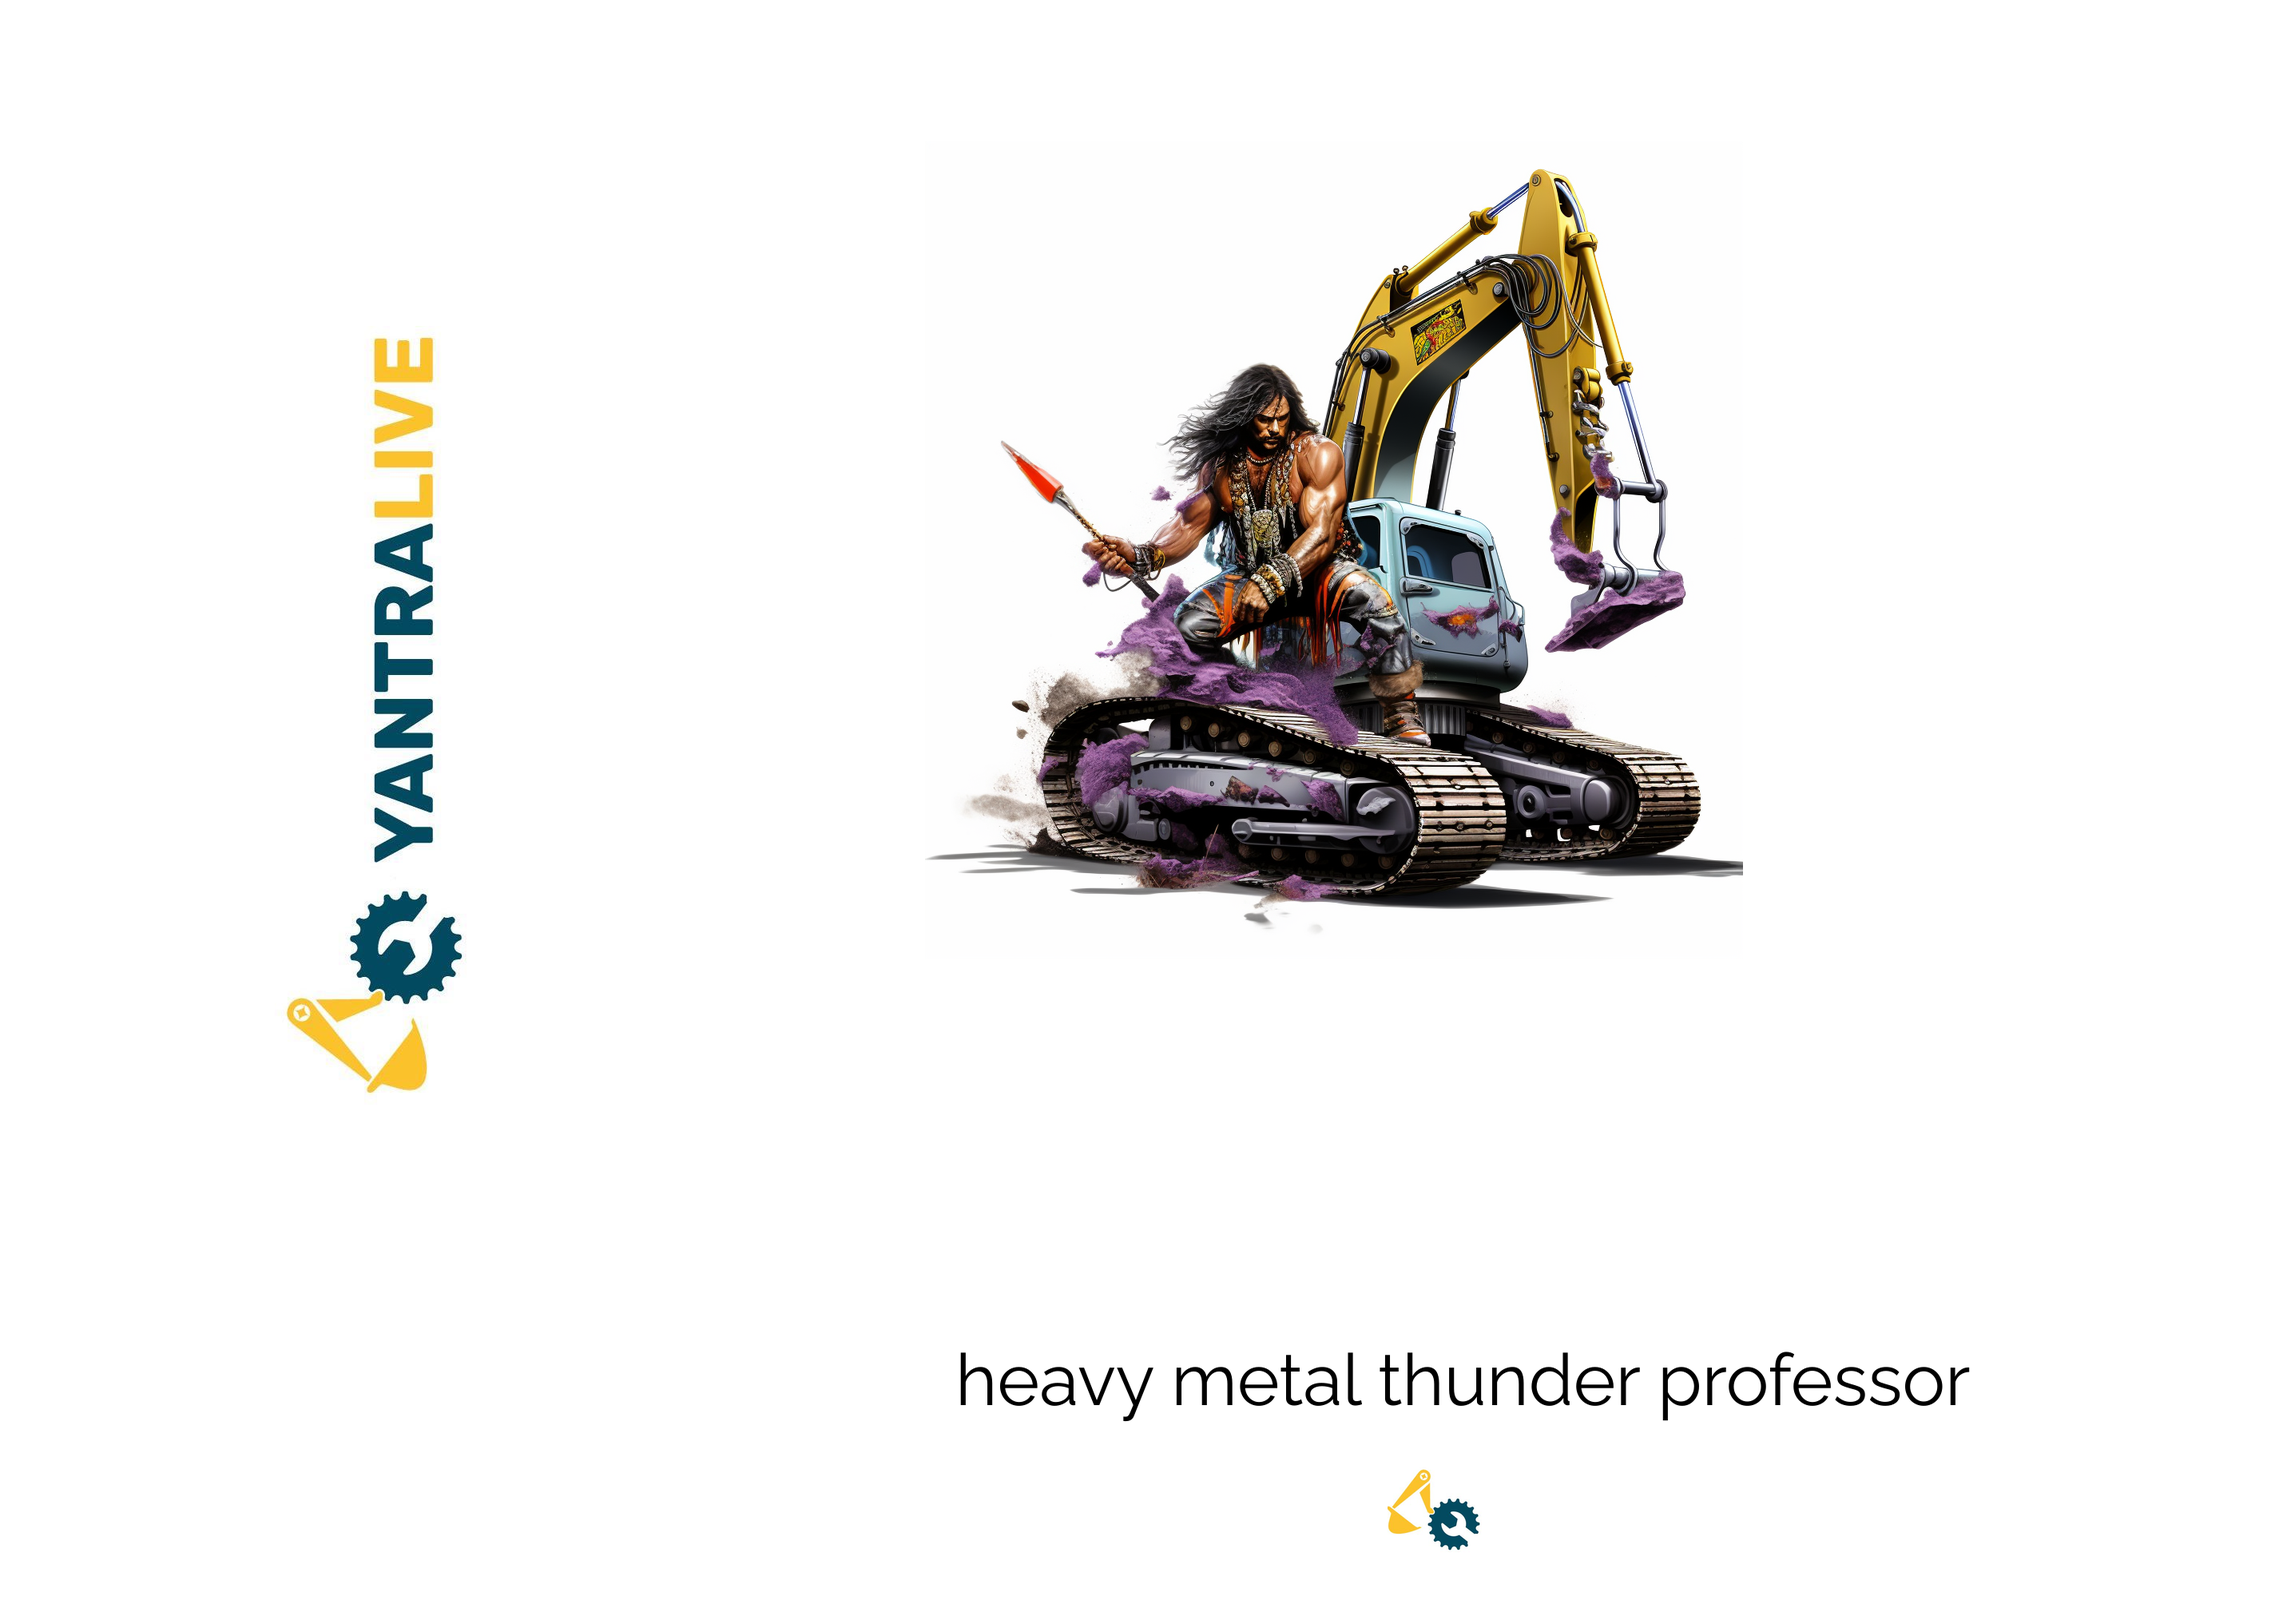
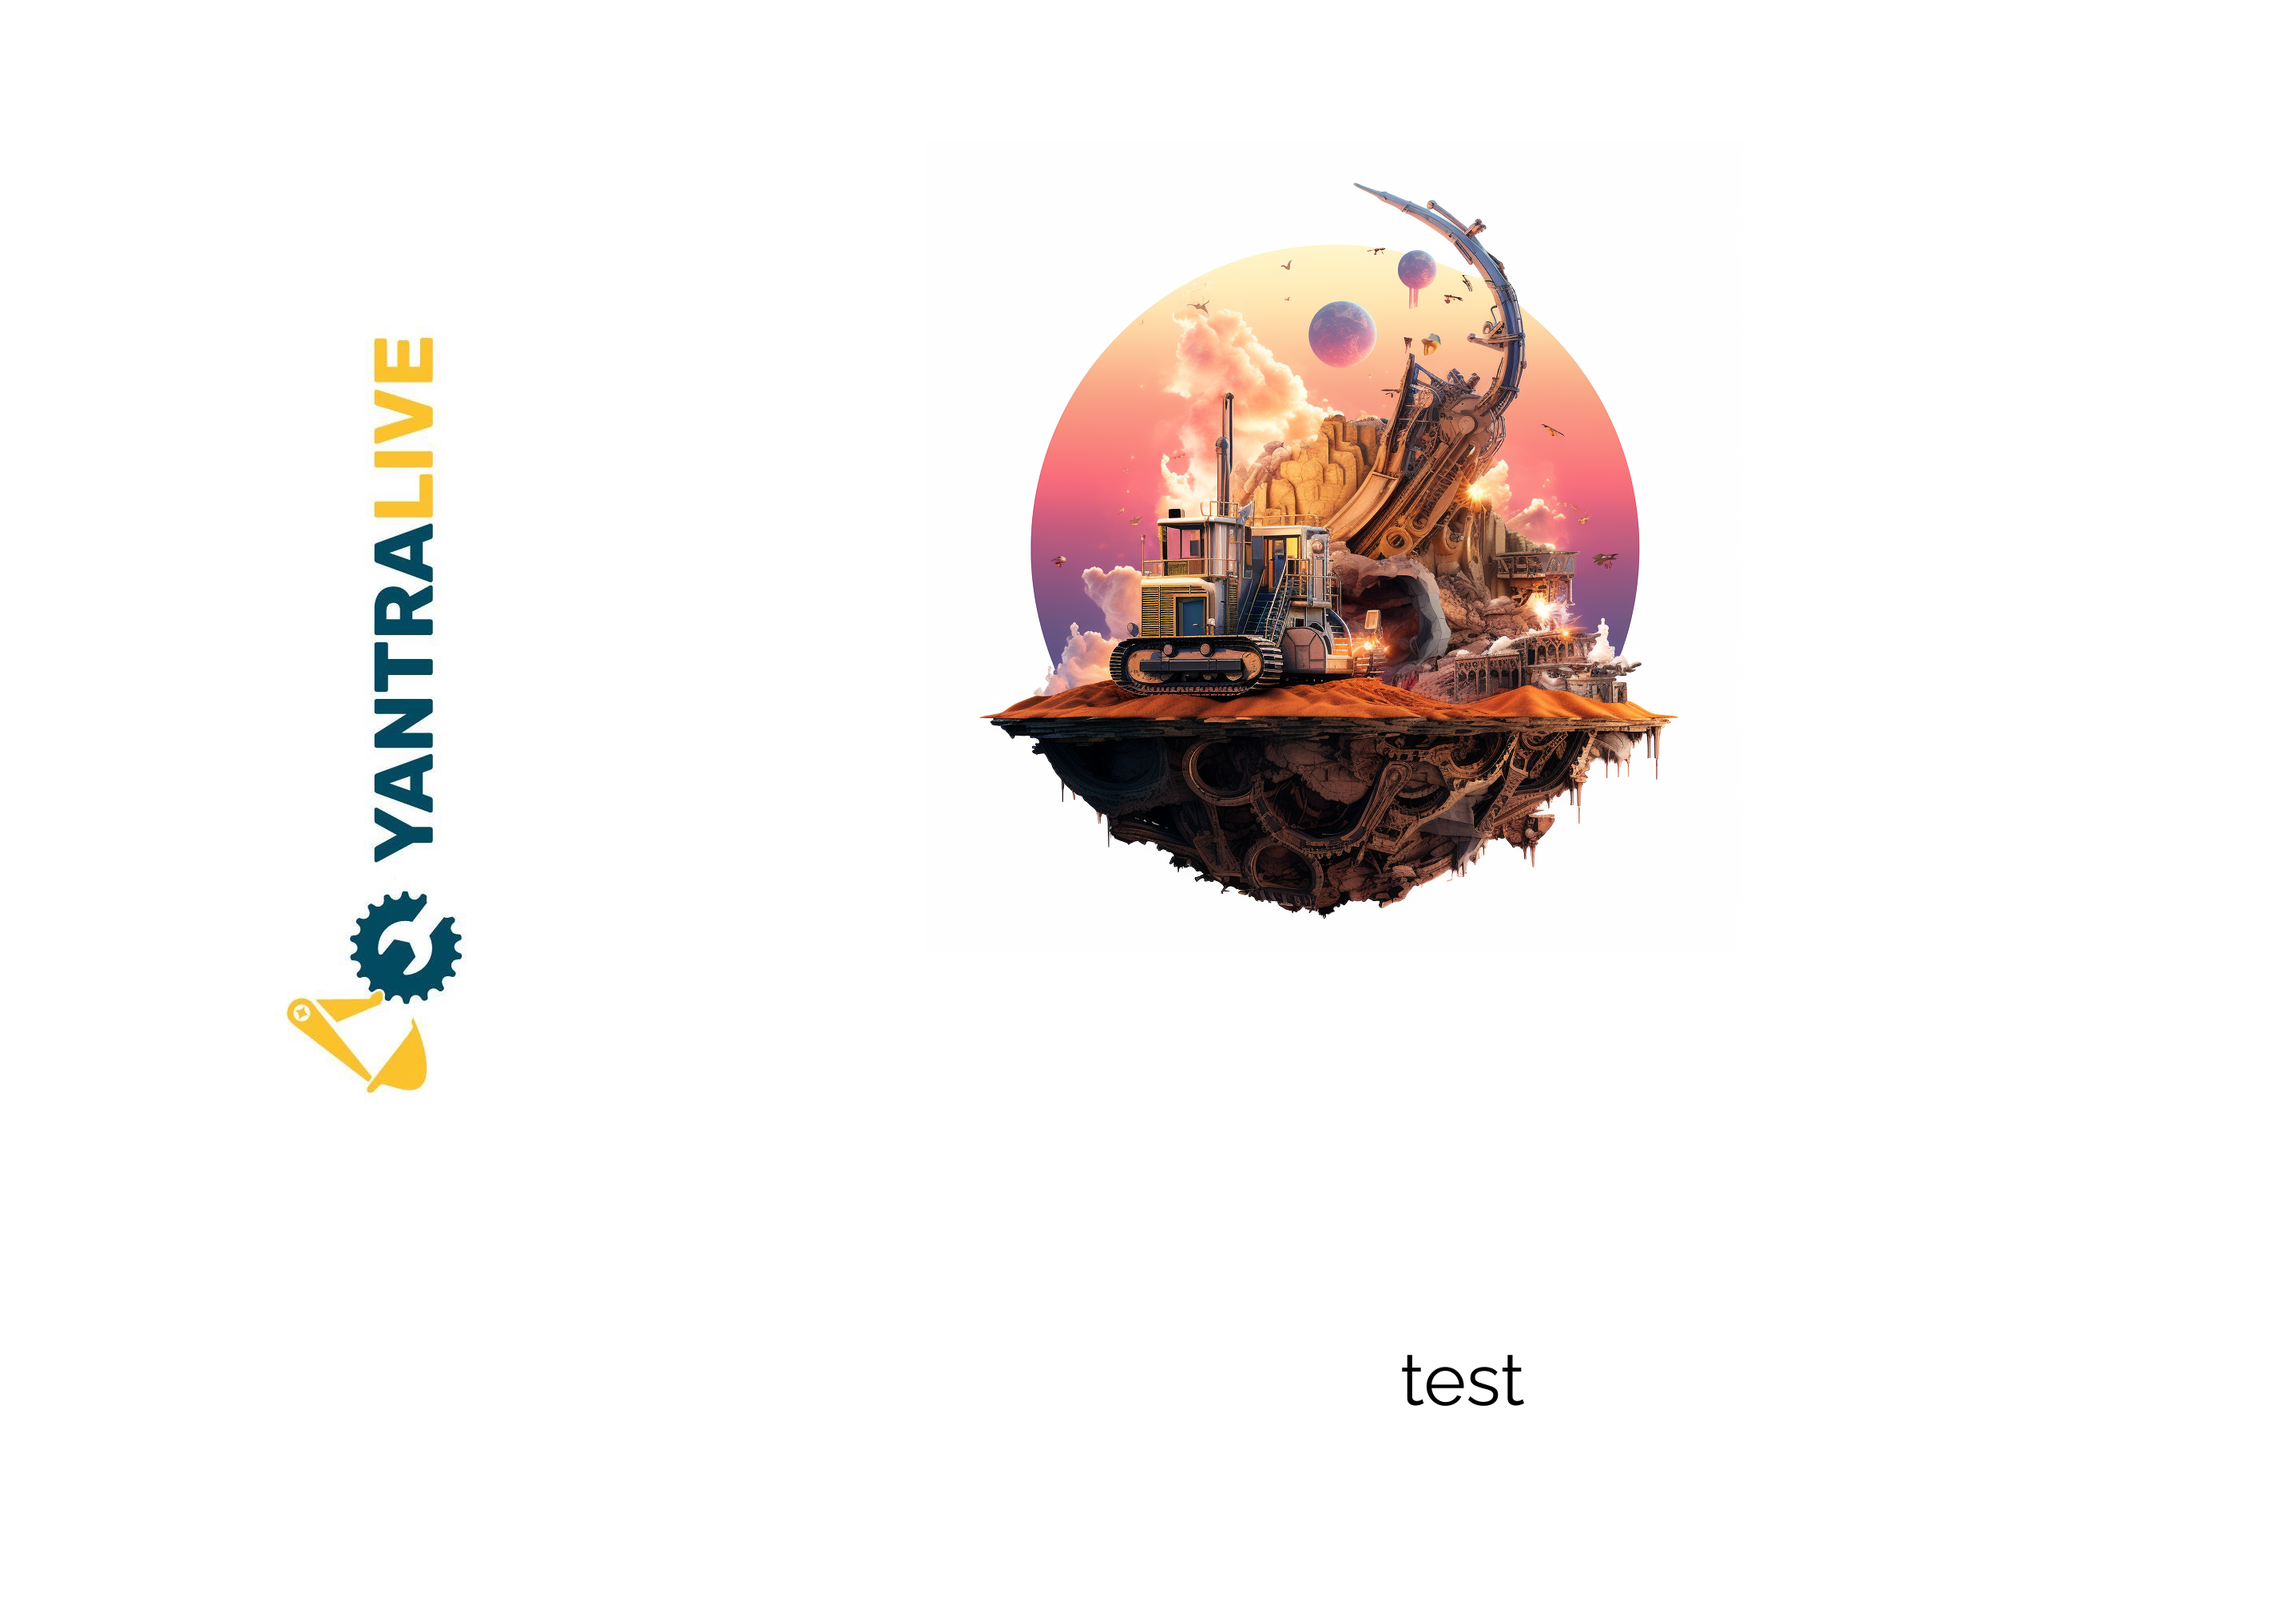
personalised bottle

Changed region(s): [[0.4048, 0.0926, 0.7785, 0.5867], [0.4048, 0.8337, 0.8408, 0.8954], [0.5917, 0.9263, 0.654, 0.988]]

diff --git a/imageGenerator2.js b/imageGenerator2.js
@@ -11,7 +11,7 @@ const dpi = 300;
 const cmToPixel = (cm) => Math.round(cm * (dpi / 2.54));
 
 // Function to generate the image
-function generateImage(image1Path, image2Path, text1, image3Path) {
+function generateImage(image1Path, image2Path, text1, text2) {
   // Define the total dimensions of the final image
   const totalWidth = cmToPixel(24.2);
   const totalHeight = cmToPixel(17);
@@ -57,6 +57,19 @@ function generateImage(image1Path, image2Path, text1, image3Path) {
   //ctx.fillText('cancer', totalWidth / 2, totalHeight - cmToPixel(3)); // 3cm above the bottom
   ctx.fillText(text1, (image1Left) + (image1Width / 2), totalHeight - cmToPixel(1.5)); // Adjusted for center of Image 1
 
+  const canvas2 = createCanvas(totalWidth, totalHeight);
+  const ctx2 = canvas2.getContext('2d');
+
+  // ... your existing logic to draw on the canvas ...
+  // Draw the text "Scorpio" on the canvas
+
+  ctx2.font = `${scorpioFontSize}px 'Raleway'`;
+  ctx2.fillStyle = 'black';
+  ctx2.textAlign = 'center';
+  ctx2.textBaseline = 'bottom';
+  //ctx.fillText('cancer', totalWidth / 2, totalHeight - cmToPixel(3)); // 3cm above the bottom
+  ctx2.fillText(text2, (image1Left) + (image1Width / 2), totalHeight - cmToPixel(1.5) + image1Top); // Adjusted for center of Image 1 and positioned below canvas
+
   // Draw the additional text "With love from Artefax" below "Scorpio"
   // ctx.font = `${additionalFontSize}px 'OpenSans'`;
   // //ctx.fillText('with love from Artefax', totalWidth / 2, totalHeight - cmToPixel(2)); // 1cm above the bottom
@@ -71,7 +84,7 @@ function generateImage(image1Path, image2Path, text1, image3Path) {
       // Resize and process images with sharp
       const processedImage1 = await sharp(image1Path).resize(/* ... */).toBuffer();
       const processedImage2 = await sharp(image2Path).resize(/* ... */).toBuffer();
-      const processedImage3 = await sharp(image3Path).resize(qrCodeSize, qrCodeSize).toBuffer();
+      // const processedImage3 = await sharp(image3Path).resize(qrCodeSize, qrCodeSize).toBuffer();
 
       // ... more of your sharp logic ...
 
@@ -88,9 +101,11 @@ function generateImage(image1Path, image2Path, text1, image3Path) {
         { input: processedImage2, top: image2Top, left: Math.round((image2Width) / 0.3)-150 }, // Image 2 is on the complete left and scaled down
         { input: processedImage1, top: image1Top, left: image1Left}, // Image 1 is centered horizontally
         // { input: qrCodeImage, top: image2Top*4, left: qrCodeLeft }, // QR code positioned
-        { input: processedImage3, top: (image2Top*4.5), left: image1Left*1.5 }, // QR code positioned
+        // { input: processedImage3, top: (image2Top*4.5), left: image1Left*1.5 }, // QR code positioned
 
-        { input: canvas.toBuffer(), top: -50, left: 0 }
+        { input: canvas.toBuffer(), top: -50, left: 0 },
+        { input: canvas2.toBuffer(), top: -60, left: 0 }
+
         // { input: , top: 0, left: 0 }
       ])
       .toBuffer();

diff --git a/server2.js b/server2.js
@@ -3,7 +3,7 @@ const multer = require('multer');
 const path = require('path');
 const fs = require('fs');
 const bodyParser = require('body-parser');
-const generateImage = require('./imageGenerator');
+const generateImage = require('./imageGenerator2');
 
 const app = express();
 const PORT = process.env.PORT || 4000;
